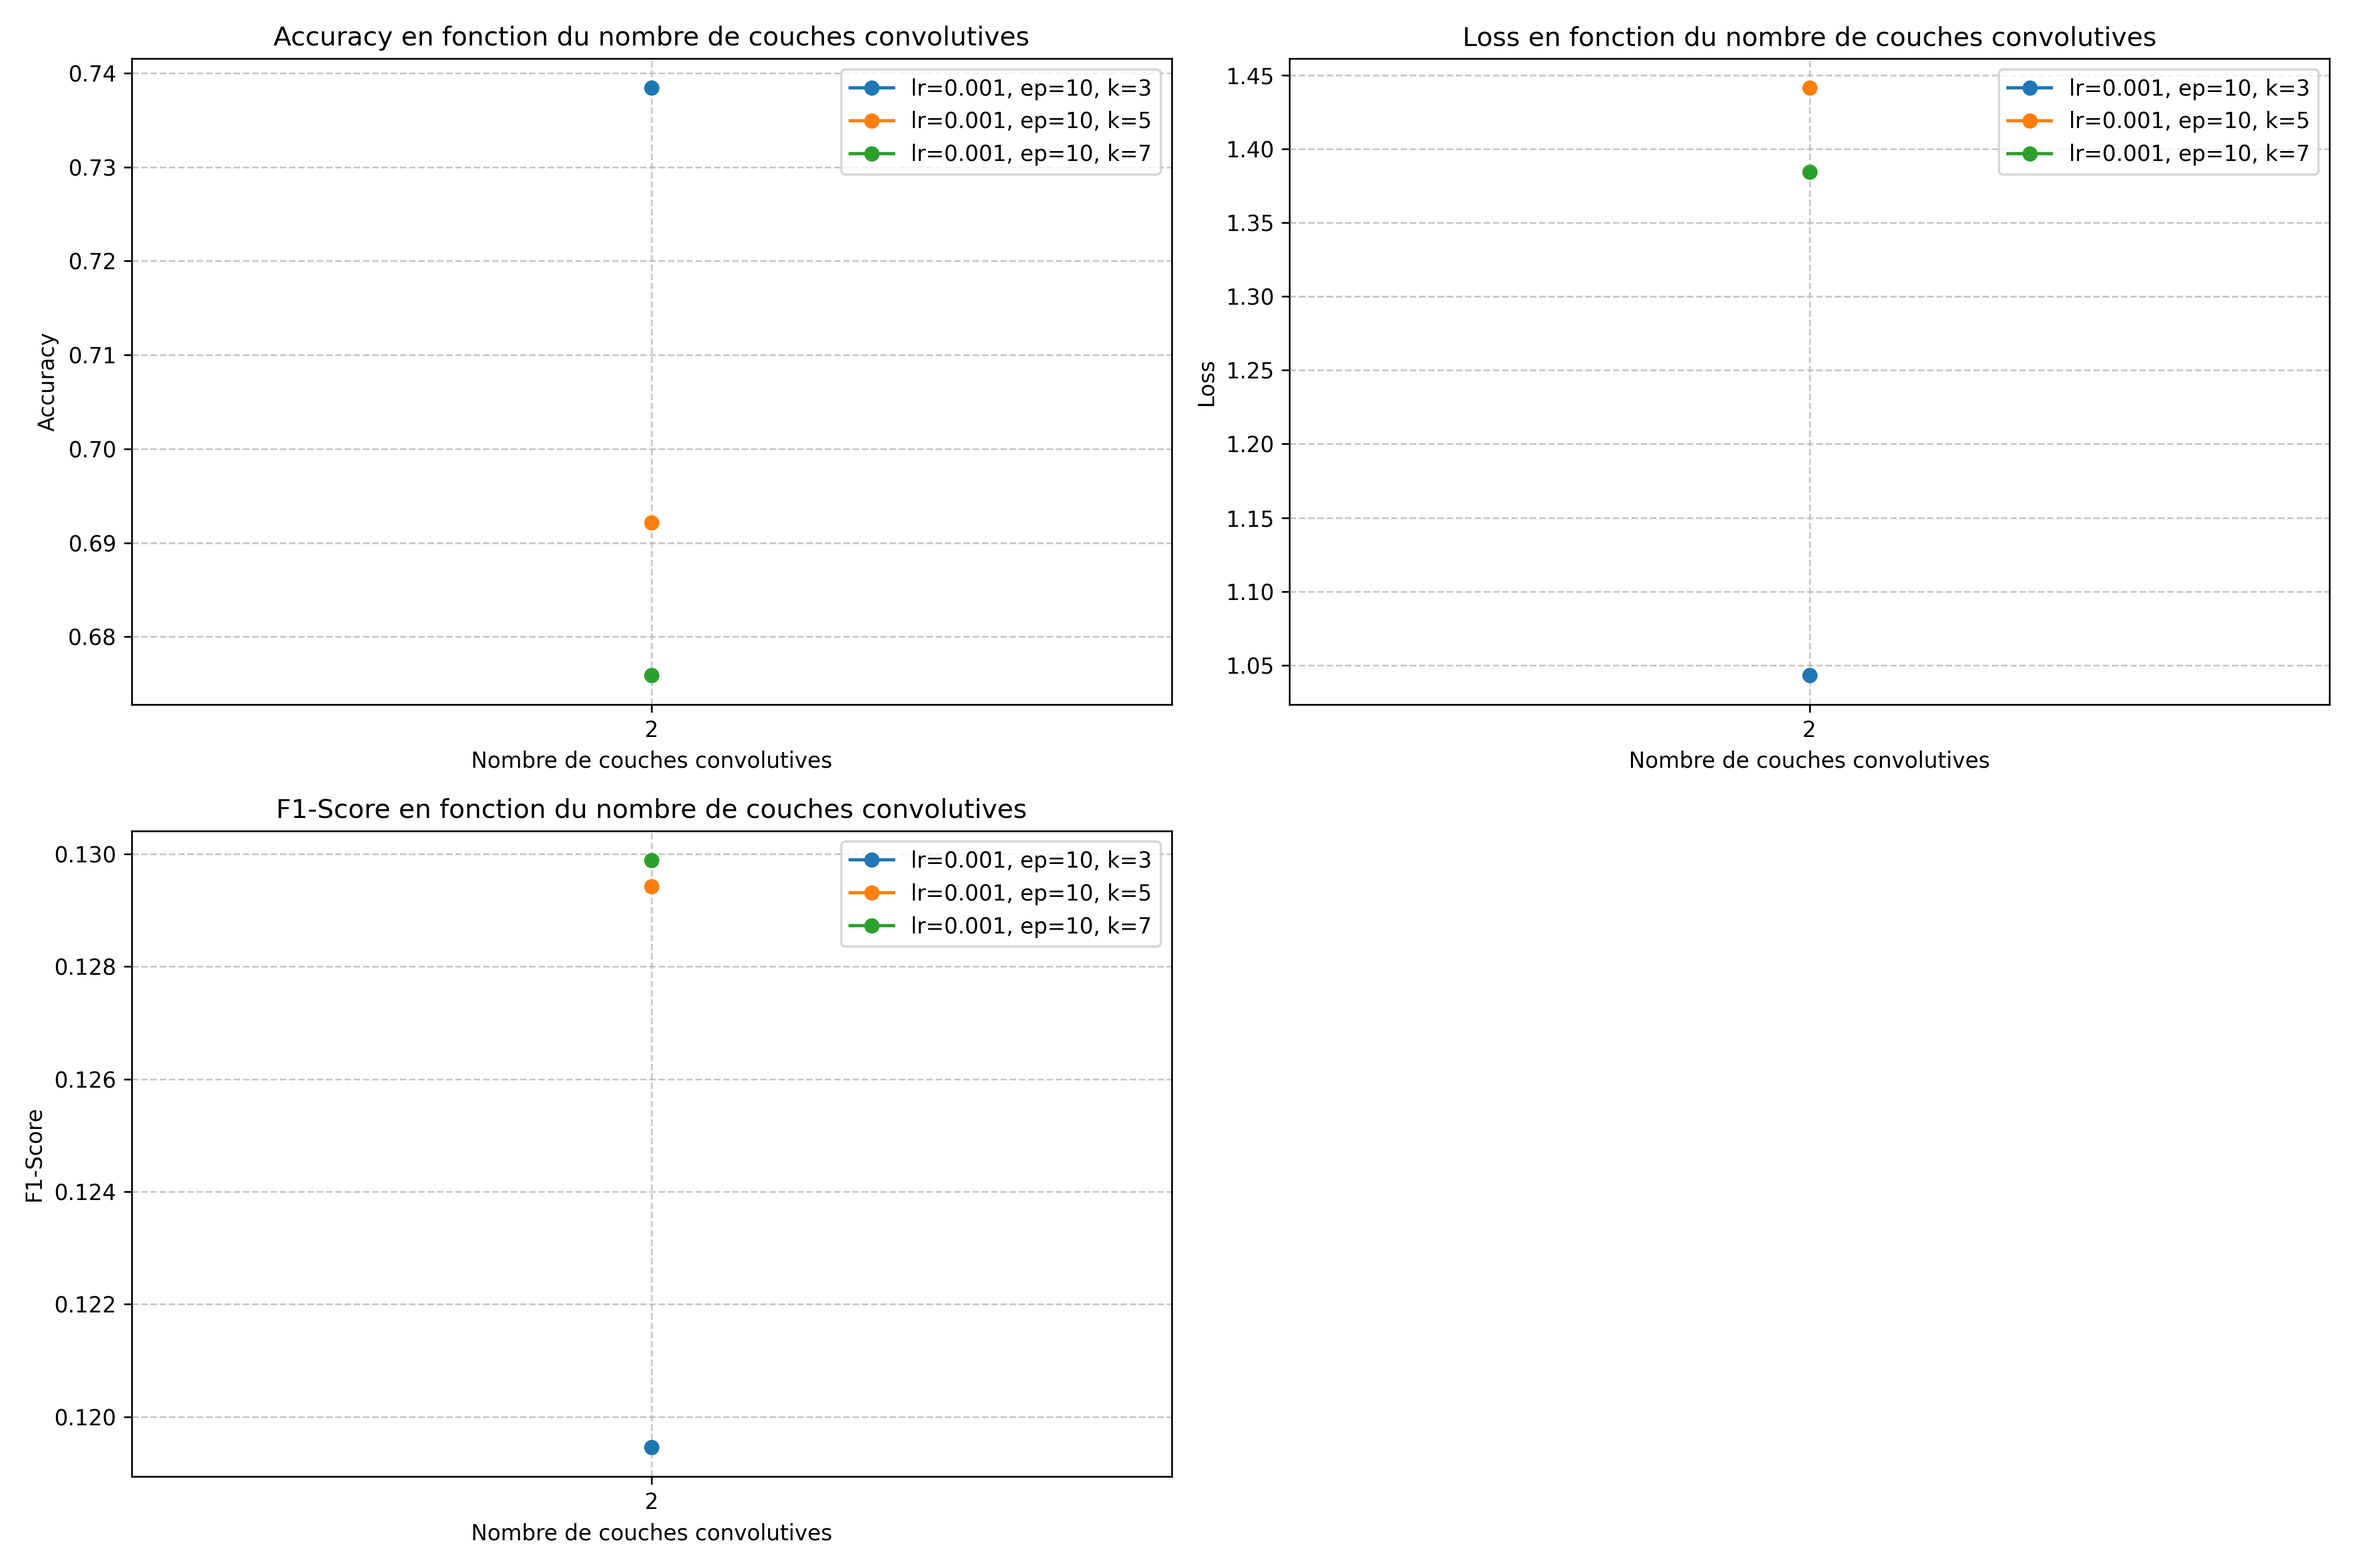
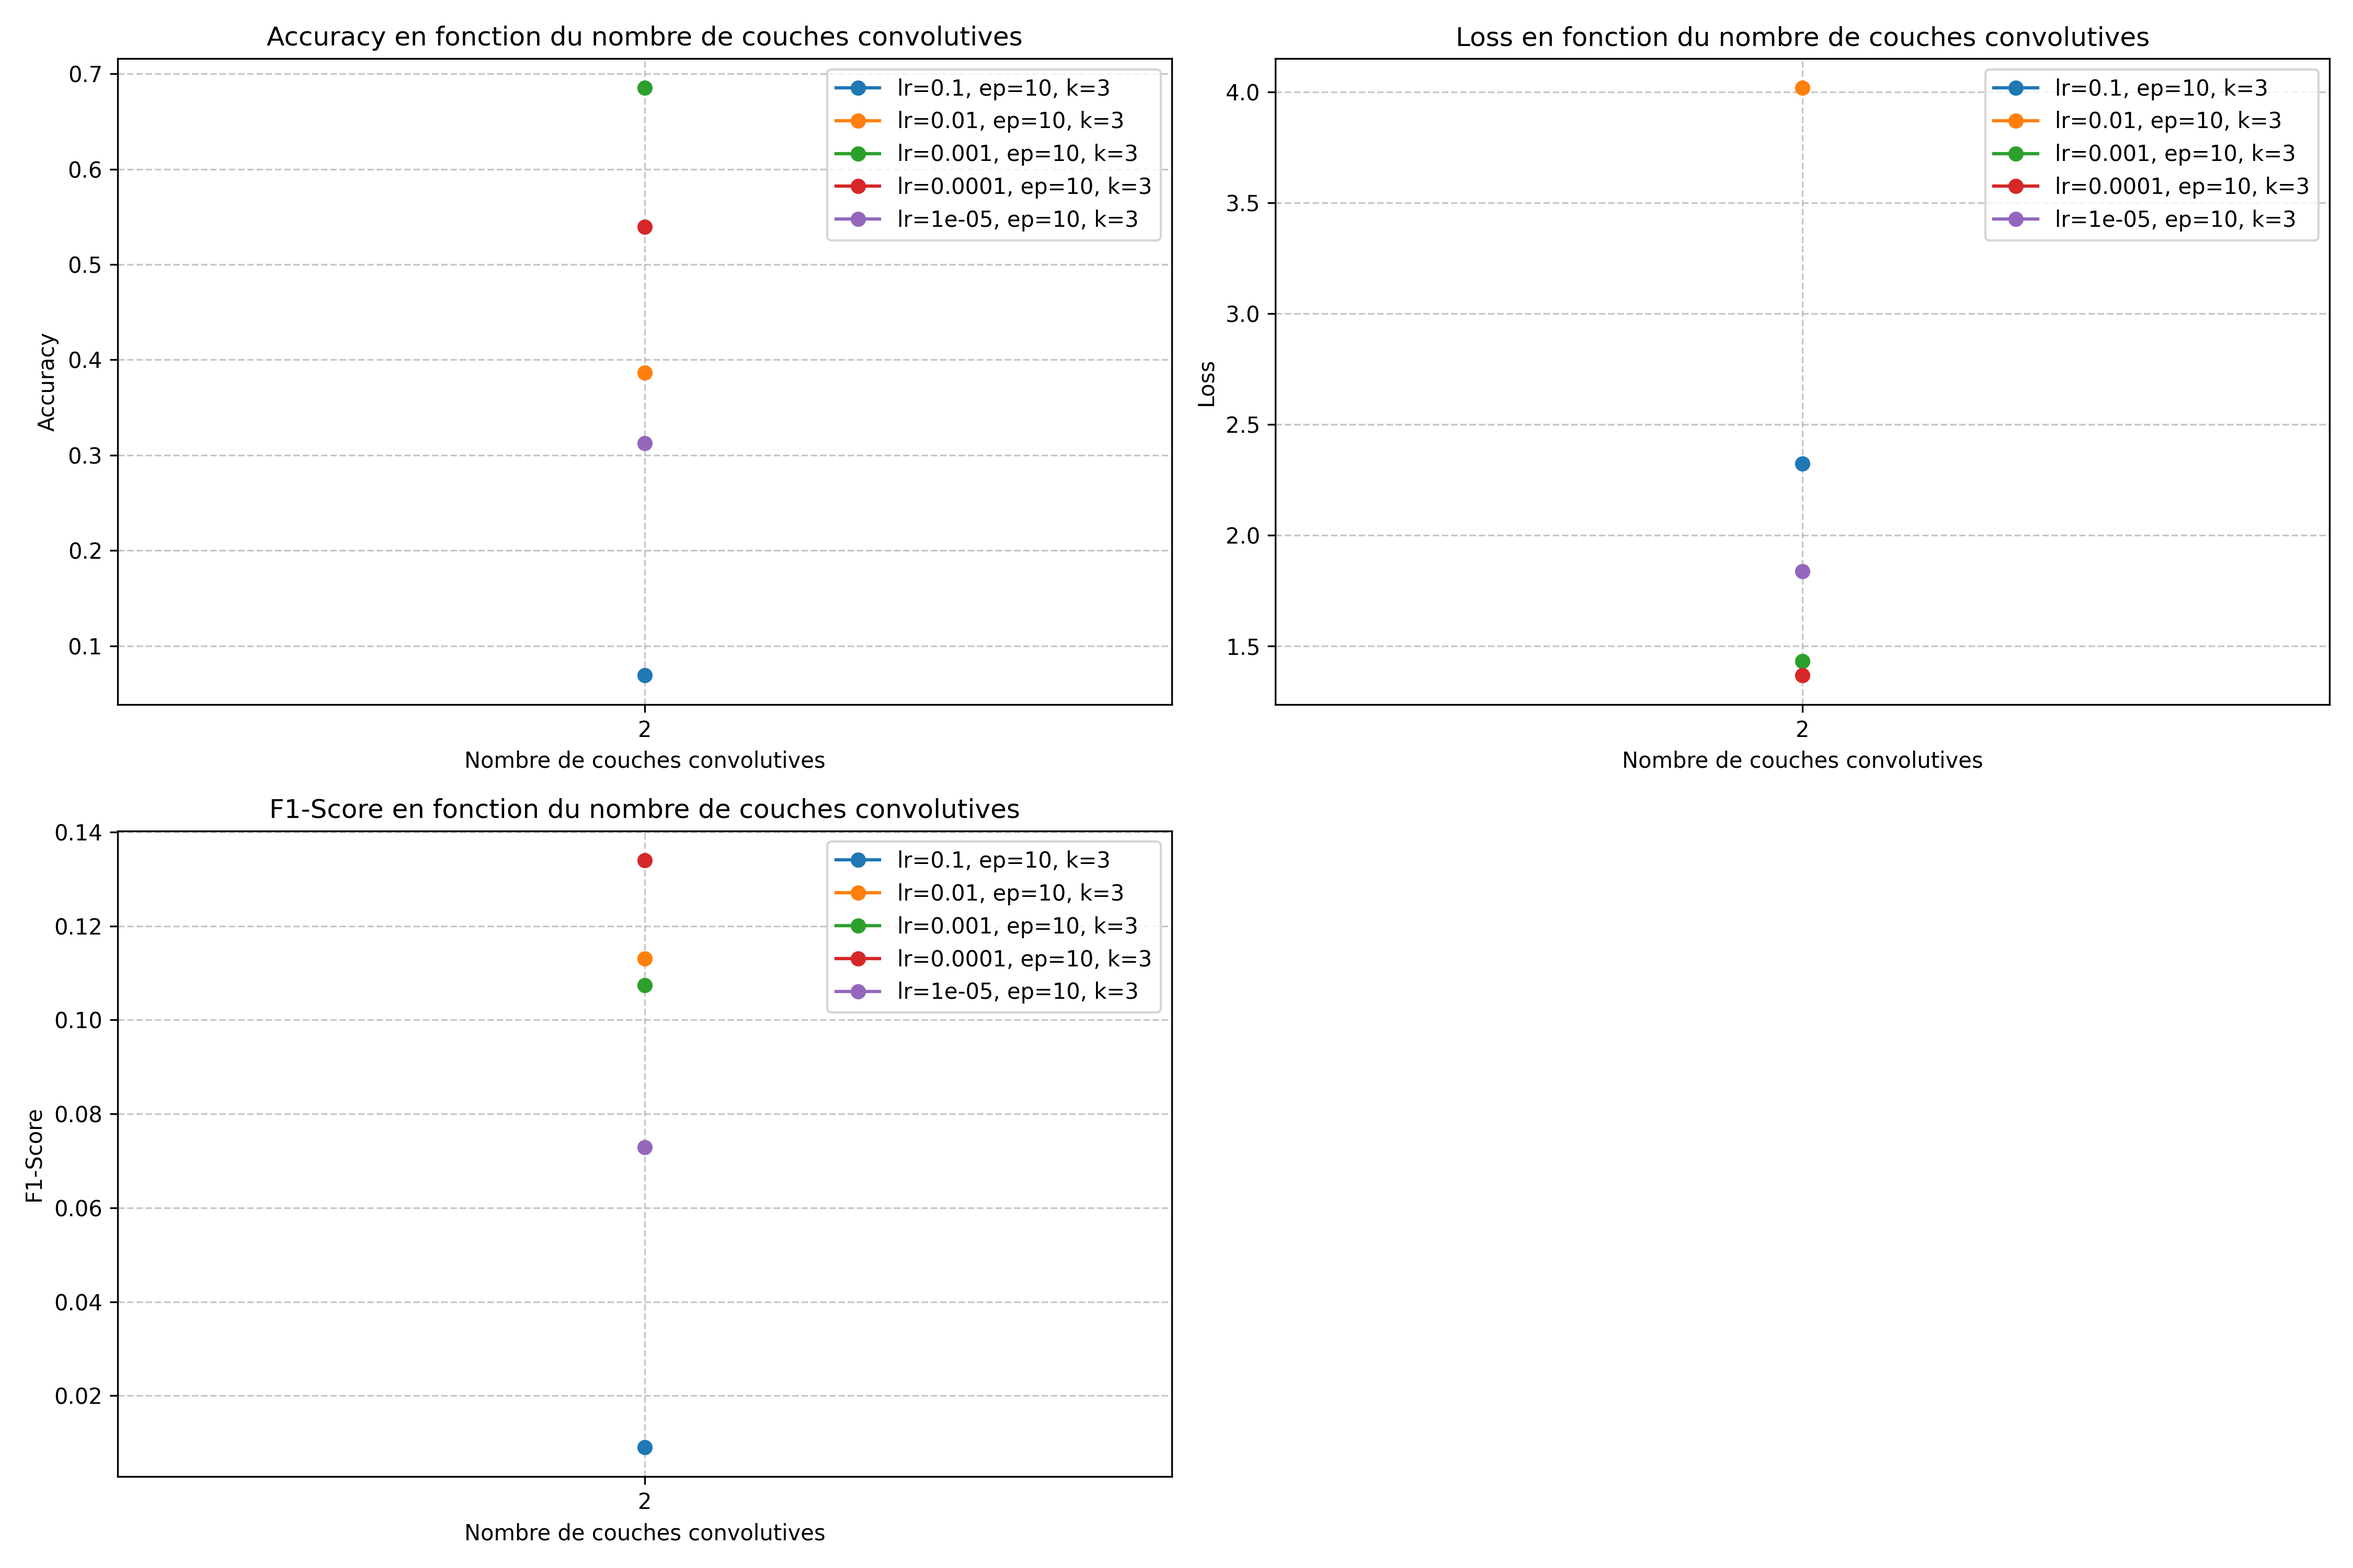
testing learning rates

diff --git a/train.py b/train.py
@@ -342,13 +342,13 @@ if __name__ == "__main__":
     conv_layers_to_test = [2]
     
     # Liste des learning rates à tester
-    learning_rates_to_test = [0.001]
+    learning_rates_to_test = [0.1, 0.01, 0.001, 0.0001, 0.00001 ]
     
     # Liste des nombres d'epochs à tester
     epochs_to_test = [10]
     
     # Liste des tailles de kernel à tester
-    kernel_sizes_to_test = [3,5,7]
+    kernel_sizes_to_test = [3]
     
     # Lancer la comparaison
     compare_models(conv_layers_to_test, learning_rates_to_test, epochs_to_test, kernel_sizes_to_test)
